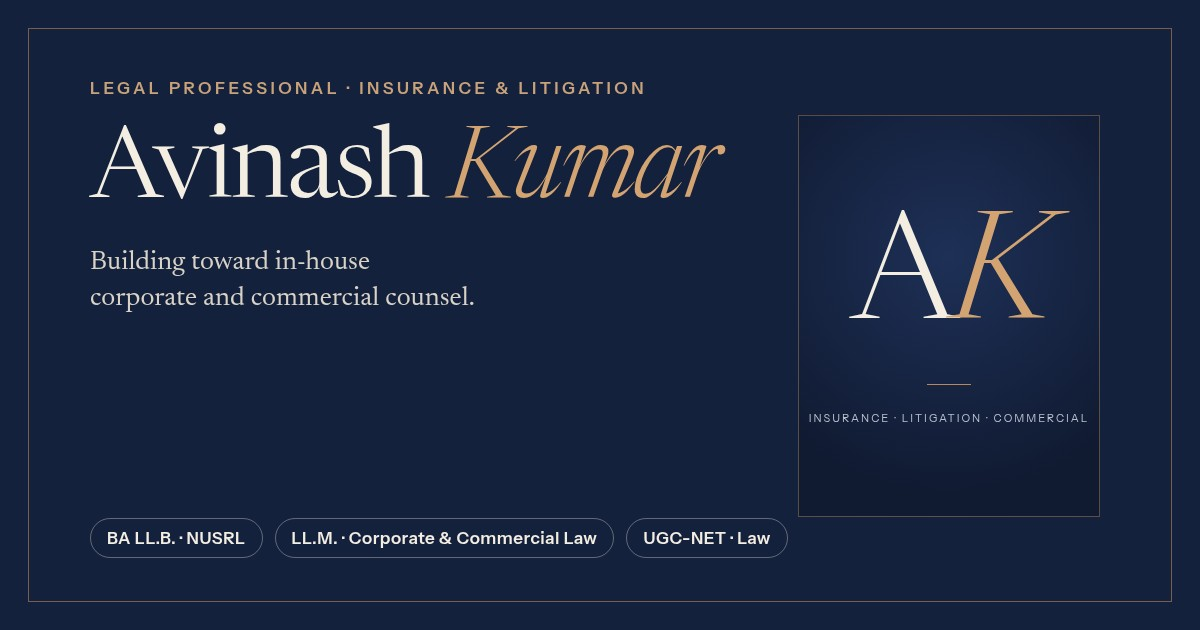
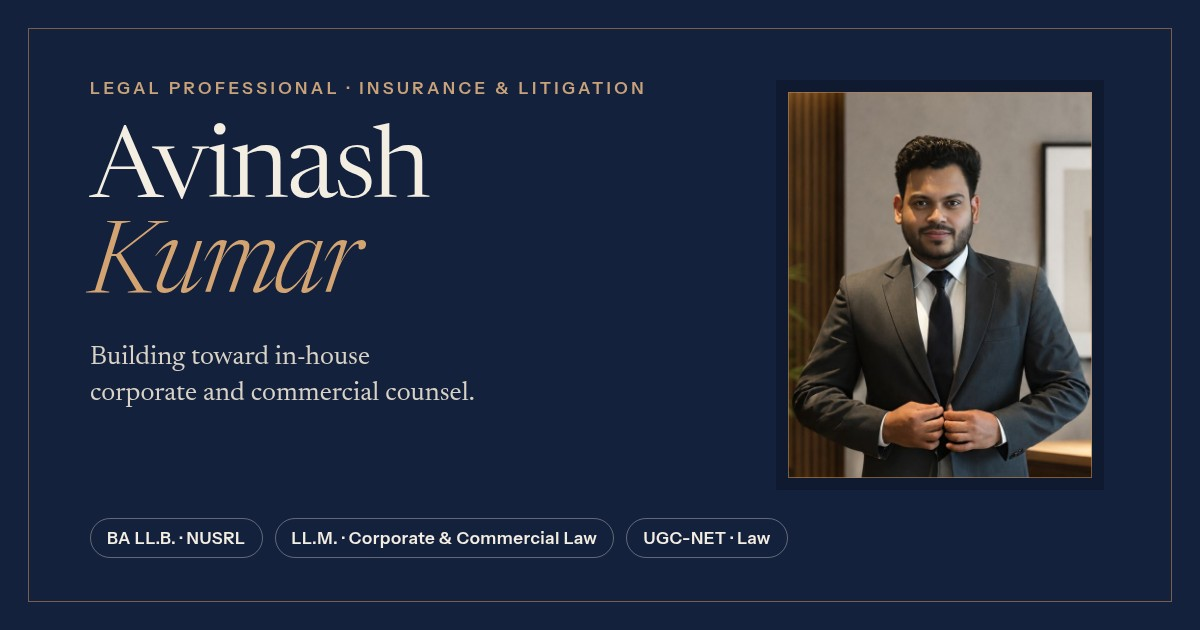
Add portrait photo to hero and og image

diff --git a/index.html b/index.html
@@ -25,6 +25,7 @@
 <link rel="icon" href="assets/img/favicon-32.png" sizes="32x32" type="image/png">
 <link rel="apple-touch-icon" href="assets/img/apple-touch-icon.png">
 <link rel="preload" href="assets/fonts/newsreader.woff2" as="font" type="font/woff2" crossorigin>
+<link rel="preload" as="image" href="assets/img/portrait-640.webp" imagesrcset="assets/img/portrait-400.webp 400w, assets/img/portrait-640.webp 640w" imagesizes="(max-width: 560px) 190px, (max-width: 820px) 300px, 380px" type="image/webp">
 <link rel="preload" href="assets/fonts/instrument-sans.woff2" as="font" type="font/woff2" crossorigin>
 <link rel="stylesheet" href="assets/css/site.css">
 </head>
@@ -70,19 +71,13 @@
         </div>
       </div>
 
-      <!--
-        PHOTO SLOT. To use a photo instead of the monogram:
-        1) add the image as assets/img/portrait.jpg (about 800×1000, 4:5 portrait)
-        2) replace the <div class="portrait__monogram"> block below with:
-           <img class="portrait__img" src="assets/img/portrait.jpg" alt="Portrait of Avinash Kumar" width="800" height="1000">
-      -->
-      <figure class="portrait" aria-hidden="true">
+      <!-- PHOTO: assets/img/portrait-640/-400 (.webp + .jpg fallback), 4:5. To revert to the monogram, see git history. -->
+      <figure class="portrait">
         <div class="portrait__frame">
-          <div class="portrait__monogram">
-            <span class="portrait__letters">A<span class="amp">K</span></span>
-            <span class="portrait__rule"></span>
-            <span class="portrait__caption">Insurance · Litigation · Commercial</span>
-          </div>
+          <picture>
+            <source type="image/webp" srcset="assets/img/portrait-400.webp 400w, assets/img/portrait-640.webp 640w" sizes="(max-width: 560px) 190px, (max-width: 820px) 300px, 380px">
+            <img class="portrait__img" src="assets/img/portrait-640.jpg" srcset="assets/img/portrait-400.jpg 400w, assets/img/portrait-640.jpg 640w" sizes="(max-width: 560px) 190px, (max-width: 820px) 300px, 380px" alt="Portrait of Avinash Kumar" width="640" height="800" loading="eager" fetchpriority="high" decoding="async">
+          </picture>
         </div>
       </figure>
     </div>

diff --git a/assets/css/site.css b/assets/css/site.css
@@ -86,7 +86,9 @@ ul,ol{margin:0;padding:0;list-style:none}
 .portrait{margin:0;justify-self:end;width:100%;max-width:380px}
 .portrait__frame{position:relative;aspect-ratio:4/5;background:var(--navy);padding:14px}
 .portrait__frame::after{content:"";position:absolute;inset:14px;border:1px solid color-mix(in srgb,var(--brass) 55%,transparent);pointer-events:none}
-.portrait__img{width:100%;height:100%;object-fit:cover}
+.portrait picture{display:block;height:100%}
+.portrait__img{width:100%;height:100%;object-fit:cover;object-position:50% 30%;background:var(--navy-2)}
+.portrait__frame::after{z-index:1}
 .portrait__monogram{height:100%;display:flex;flex-direction:column;align-items:center;justify-content:center;gap:1.4rem;color:var(--on-navy);background:radial-gradient(80% 60% at 50% 35%,var(--navy-2),var(--navy))}
 .portrait__letters{font:300 clamp(6rem,12vw,9.5rem)/1 var(--serif);letter-spacing:-.04em;font-variation-settings:"opsz" 72}
 .portrait__letters .amp{font-style:italic;color:var(--brass);margin-left:-.06em}

diff --git a/README.md b/README.md
@@ -6,7 +6,7 @@ Static single-page site. No build step: GitHub Pages serves `index.html` from th
 index.html               the page
 assets/css/site.css      all styles (light/dark via prefers-color-scheme, responsive, print)
 assets/fonts/            self-hosted Newsreader + Instrument Sans (OFL)
-assets/img/              favicon.svg, favicon-32.png, apple-touch-icon.png, og-image.jpg
+assets/img/              portrait-*.webp/.jpg, favicon.svg, favicon-32.png, apple-touch-icon.png, og-image.jpg
 PROFILE_README.md        draft README for the github.com/AviKr2000/AviKr2000 profile repo (not part of the site)
 ```
 
@@ -17,7 +17,7 @@ Preview locally: `python3 -m http.server 8000` then open http://localhost:8000.
 - [ ] **Email**: hidden for now; uncomment the Email item in the Contact section of `index.html` and add the address.
 - [ ] **LL.M.**: add institution and year (Credentials section, and ideally on LinkedIn Education too).
 - [ ] **Content Strategist**: add organisation if there is one.
-- [ ] **Photo (optional)**: add `assets/img/portrait.jpg` (4:5) and follow the PHOTO SLOT comment in `index.html`.
+- [x] **Photo**: `assets/img/portrait-640|400.(webp|jpg)`, 4:5 crop, also used in `og-image.jpg`.
 - [ ] **Politician names**: decide whether to restore them (see comment in the Experience section).
 - [ ] **Employer rules**: check the employer's conduct rules on outside publications before posting writing pieces.
 
